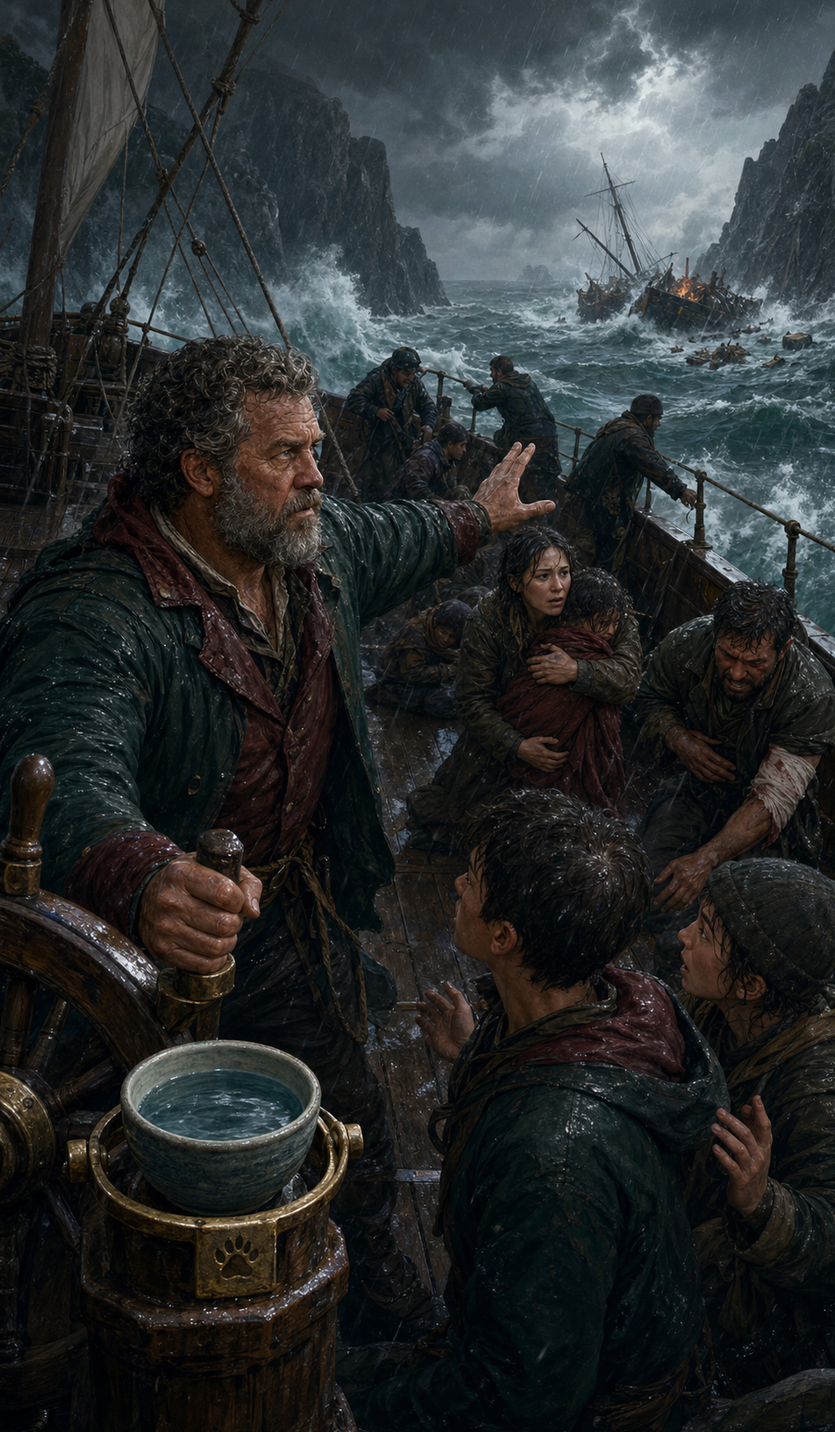
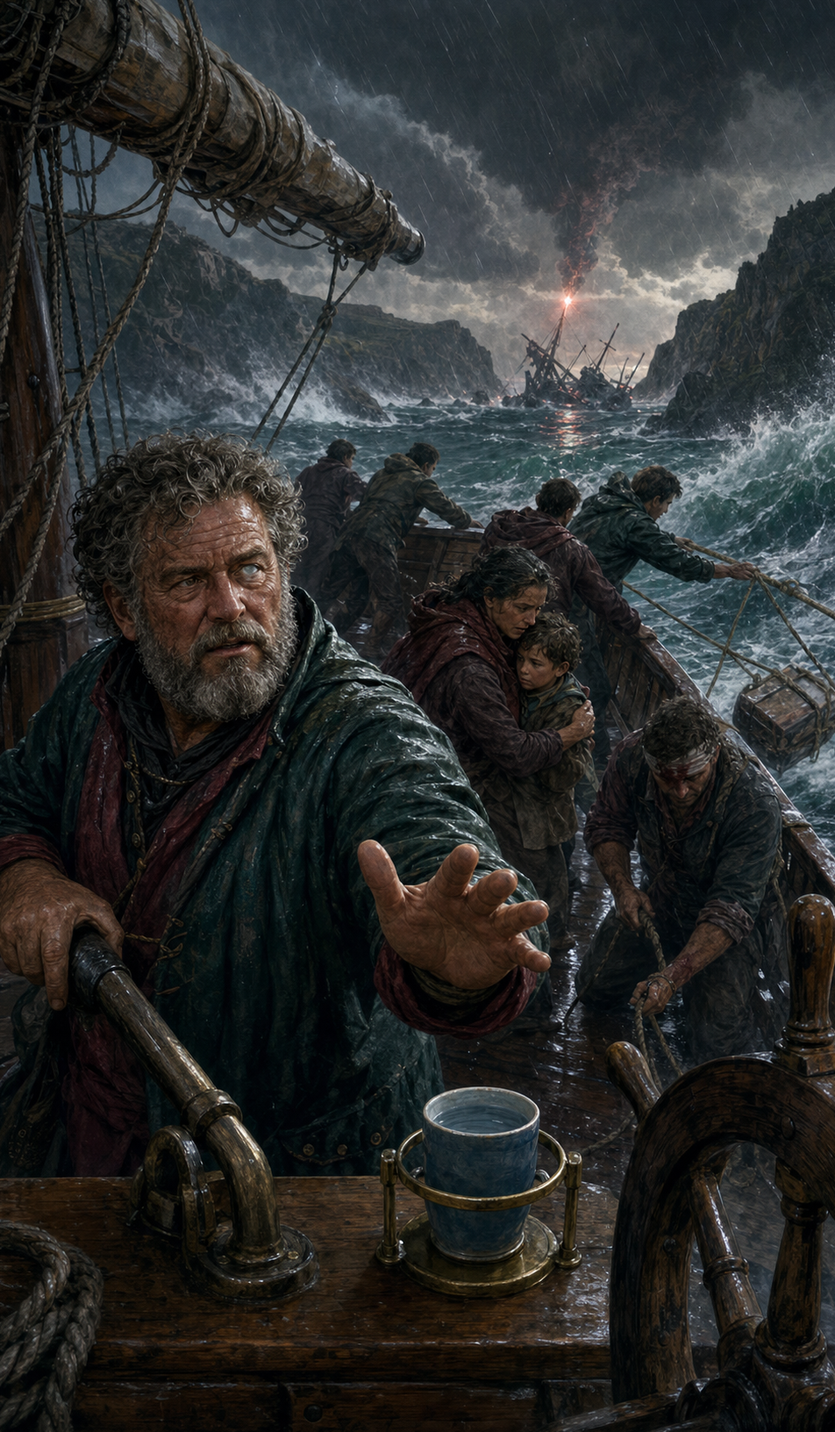
Correct the three Pending A19 candidates with independent text-only regenerations, preserve rejection provenance, and clarify that wolf motifs must be narratively meaningful rather than token branding. For handoff only — all three A19 cards remain Pending owner visual review.

diff --git a/resources/assets/tarot/artwork-packs/lupus-noctis/records/minor/pentacles/seven.md b/resources/assets/tarot/artwork-packs/lupus-noctis/records/minor/pentacles/seven.md
@@ -13,11 +13,11 @@ Seven of Pentacles represents patience, long investment, evaluation, delayed rew
 
 ## Independent Casting
 
-The central cultivator is a short, sturdy man approximately 62–72 with pale ruddy skin, thick white-blond beard, sparse white hair, a deeply lined face, broad soil- and spore-stained hands, and patched umber, lichen-green, and faded-blue underground work clothing. One young adult apprentice remains secondary at a vertical temperature gauge. Neither is recurring cast, and the cultivator is not presented as a dwarf, wizard, or comic hermit.
+The central cultivator is a short, sturdy man approximately 62–72 with pale ruddy skin, thick white-blond beard, sparse white hair, a deeply lined face, broad soil- and spore-stained hands, and patched umber, lichen-green, and faded-blue underground work clothing. One young adult apprentice remains secondary at an open preindustrial vertical cord-and-weight draft register. Neither is recurring cast, and the cultivator is not presented as a dwarf, wizard, or comic hermit.
 
 ## Casting Contrast
 
-The low kneeling white-blond elderly cultivator and quiet secondary gauge-reader contrast with A18's sensual communal orchard, horizontal sleeping veteran, and kinetic relay master, as well as A19's large cliff-port ensemble and crowded storm cutter. His compact grounded body and investigative work replace heroic height, authority costume, and familiar mystical-old-man cues.
+The low kneeling white-blond elderly cultivator and quiet secondary draft-register reader contrast with A18's sensual communal orchard, horizontal sleeping veteran, and kinetic relay master, as well as A19's large cliff-port ensemble and crowded storm cutter. His compact grounded body and investigative work replace heroic height, authority costume, modern-laboratory cues, and familiar mystical-old-man staging.
 
 ## Narrative Brief
 
@@ -33,13 +33,13 @@ Quiet, damp, earthy, patient, and analytical at low external but high attentive 
 
 ## Composition
 
-A restrained high-oblique chamber view uses four front beds and three rear beds to create depth. All seven circular bronze seals remain separately countable in the same `4 + 3` grouping. The cultivator kneels between mature, developing, and failed outcomes while lifting a rectangular airflow block; the apprentice and vertical scale remain secondary at the rear-right wall.
+A restrained high-oblique chamber view uses four front beds and three rear beds to create depth. All seven circular bronze seals remain separately countable in the same `4 + 3` grouping. The cultivator kneels between mature, developing, and failed outcomes while lifting a rectangular airflow block; the apprentice and open wood, brass, cord, slider, and hanging-weight device remain secondary at the rear-right support.
 
 ## Wolf Motif Mode
 
-**Visible secondary motif.** A readable wolf-track relief is carved into the old lintel above the chamber. It remains smaller than the central face and cultivation beds. No physical wolf appears.
+**Ambient-only.** Mine construction, cultivation practice, patched regional work clothing, timber shoring, stone beds, and practical material culture establish the setting. The lintel is plain rough timber and stone. No track relief, paw, wolf emblem, token insignia, physical wolf, or other animal appears.
 
-## Full Generation Prompt
+## Initial Generation Prompt
 
 ```text
 Use case: illustration-story
@@ -81,18 +81,76 @@ Exactly seven circular bronze seals in a 4 + 3 arrangement. No other prominent c
 Check support beams, roots, tools and bed edges so none crosses eyes, mouths, hands or joints unnaturally.
 ```
 
-## Negative Constraints
+## Initial Negative Constraints
 
 Exactly seven circular bronze seals in a `4 + 3` arrangement; no eighth seal, loose coin, additional medallion, prominent circular metal object, round gauge, plate, wheel, circular lamp, magical glow, physical wolf, wizard or dwarf caricature, object handoff, embedded text, pseudo-runes, accidental tattoos, frame, watermark, signature, or logo.
 
-## Final Candidate
+## Initial Generation Result and Owner Rejection
+
+- Superseded candidate path: `studies/A19/seven-of-pentacles.png`; replaced in place and not retained as a duplicate
+- Original generated dimensions: `957 × 1643 px`
+- Normalized dimensions: `952 × 1632 px` (exact `7:12`), produced by centered crop without stretching
[1 lines of base64/hex data omitted]
+- Generation ordinal: **1**, independent text-only; no attachment or image reference
+- Owner rejection: the apprentice's narrow enclosed vertical instrument read as a modern thermometer rather than a plausible preindustrial measuring device, and the wolf-track relief above the lintel read as a forced decorative insert. Both were blocking defects requiring a preindustrial open draft/humidity register and ambient-only worldbuilding without a replacement token motif.
+
+## Targeted Correction Prompt
+
+```text
+Use case: illustration-story
+Asset type: corrected borderless inner illustration for an exact 7:12 portrait Tarot review candidate
+Generation mode: one targeted independent text-only correction; no input image and no image reference
+
+Primary request:
+Create an earthy contemporary painted grounded narrative-fantasy Tarot illustration about patience, cultivation, delayed reward, evaluation, and adjusting a process instead of merely repeating failure. Preserve the abandoned-mine medicinal mushroom farm and exact seven-seal contract, while correcting both rejected defects: the modern-thermometer reading and the forced wolf-track relief.
+
+Scene:
+An abandoned mine gallery has been converted into a practical subterranean medicinal mushroom farm. Exactly seven experimental stone cultivation beds use different substrates. Exactly two beds contain mature fruiting mushrooms. Several beds show clearly distinguishable early growth. One bed has visibly failed through dry or contaminated substrate. The cultivator deliberately leaves the mature growth unharvested until the next humidity cycle while removing exactly one rectangular non-circular wooden airflow block from the failed bed to change the process.
+
+Central cultivator:
+A man approximately sixty-two to seventy-two years old with a short sturdy build, pale ruddy skin, thick white-blond beard, sparse white hair, deeply lined face, and broad soil- and spore-stained hands. He wears patched umber, lichen-green, and faded-blue underground work clothing. He is a grounded experienced worker, not a fantasy dwarf, wizard, alchemist, or comic hermit.
+
+Apprentice and corrected device:
+Exactly one young adult apprentice remains secondary and checks a plausible preindustrial vertical airflow, draft, or humidity-registering device fixed to a timber support.
+The device is unmistakably handmade and preindustrial: an open wooden vertical frame, brass linear pointer, taut cord, small sliding marker, and one hanging non-circular weight showing airflow or humidity by vertical displacement.
+It has no glass tube, no sealed liquid column, no mercury appearance, no modern thermometer shape, no laboratory styling, no modern industrial casing, no round dial, no numbers, no letters, and no embedded writing.
+The apprentice observes or adjusts the cord and sliding marker without pointing dramatically and without receiving an object.
+
+Exact pentacle contract:
+Exactly seven prominent circular bronze cultivation seals mark the seven beds.
+Front group: exactly four complete, separately visible circular bronze seals.
+Rear group: exactly three complete, separately visible circular bronze seals.
+Total: exactly seven.
+All seven seals are fully inside the image with clear negative space and safe margins. No seal is cropped, hidden, merged, or obscured.
+No eighth seal, no loose coin, no additional medallion, no round gauge, no plate, no wheel, no circular lamp, no circular metal fitting, and no other prominent count-confusing circular metal object.
+
+Corrected wolf-world mode:
+Ambient-only through old mine construction, cultivation practice, patched regional work clothing, timber shoring, stone beds, and material culture.
+The lintel above the chamber is plain rough stone and timber with no carving.
+No wolf-track relief. No paw print, wolf emblem, badge, logo, medallion, carved wolf head, decorative animal symbol, substitute token insignia, physical wolf, or other animal.
+
+Composition:
+Exact 7:12 portrait, borderless. Use a restrained high-oblique or chamber-level view. Arrange four foreground beds in one clearly readable front group and three background beds in one clearly readable rear group. The seven seals must be instantly countable at Tarot-card size. The cultivator kneels between mature, developing, and failed results, visibly lifting the rectangular airflow block. The apprentice and open cord-and-weight linear device remain visible but secondary. Keep all seals, faces, hands, device, and action within safe margins.
+
+Style and materials:
+Contemporary painted grounded fantasy, modern RPG chapter art, natural varied brushwork, believable mature anatomy and hands. Distinguish skin, white-blond beard, patched cloth, rough stone, timber, bronze, soil, mature mushrooms, early growth, failed substrate, moisture, cord, and simple brass pointer. Painted, not photorealistic and not 3D-rendered.
+
+Mood and palette:
+Quiet, damp, earthy, patient, and analytical. Lichen green, umber, mineral gray, faded blue, restrained bronze, pale fungal cream, moist soil, and cool shaft light.
+
+Absolute constraints:
+Exactly seven circular bronze seals in a 4 front + 3 rear arrangement. No other prominent circular metal object. No modern thermometer, glass tube, liquid column, laboratory device, modern instrument, round gauge, dial, writing, or numbers. No wolf-track relief or any substitute token wolf motif. No magic glow, physical wolf, animal, wizard, dwarf caricature, alchemist, treasure mine, handoff, text, title, number, frame, border, watermark, signature, logo, pseudo-runes, accidental tattoos, 3D render, anime, or comic cel shading.
+
+Check support beams, roots, tools, device cords, pointers, and bed edges so none crosses eyes, mouths, hands, or joints unnaturally.
+```
+
+## Corrected Final Candidate
 
 - Path: `studies/A19/seven-of-pentacles.png`
-- Original generated dimensions: `957 × 1643 px`
+- Corrected generated dimensions: `957 × 1643 px`
 - Final dimensions: `952 × 1632 px` (exact `7:12`), produced by centered crop without stretching
[1 lines of base64/hex data omitted]
-- Generation count: **1** initial text-only generation; no correction used
-- Targeted correction prompt: none
-- Technical review: Full-size, `238 × 408` card-size, and cultivation-area zoom review prove exactly seven separately visible circular bronze bed seals: four across the front group and three across the rear group. No eighth seal, loose coin, additional medallion, round instrument face, or other prominent circular metal object appears; the apprentice uses a vertical scale. Two beds carry mature mushrooms, several show distinct early stages, and the dense pale failed bed contrasts with both. The cultivator leaves mature growth in place while lifting one rectangular wooden airflow block, so the action reads as patient evaluation and process adjustment rather than passive waiting. The old white-blond cultivator remains a grounded worker rather than a dwarf, wizard, or comic hermit, and the wolf-track lintel relief is readable but secondary. Faces, hands, joints, supports, bed edges, stone, timber, bronze, soil, fungi, moisture, beard, and cloth remain clear and materially distinct; no blocking facial tangency, embedded text, pseudo-rune, accidental tattoo, physical wolf, frame, watermark, signature, or logo is visible. The source was decoded and center-cropped without stretching.
[1 lines of base64/hex data omitted]
+- Cumulative generation count: **2** independent text-only generations; neither used an attachment or image reference
+- Technical review: Full-size, `238 × 408` card-size, cultivation-area zoom, and device zoom review show exactly seven complete circular bronze bed seals, four across the front group and three across the rear group. No eighth seal, loose coin, additional medallion, round gauge, wheel, plate, circular lamp, or other prominent count-confusing circular metal object appears. Each of the seven seals carries the same conspicuous five-point geometric star design; these markings do not add to the seal count and are not wolf motifs, but they remain an explicit owner-review observation rather than being misreported as an absence of visible symbols. The apprentice uses an open timber frame with cord, brass slider and linear pointer, and a hanging cylindrical weight; there is no glass tube, liquid column, enclosed thermometer body, modern laboratory casing, writing, number, or round dial. Four foreground and three rear beds show two mature crops, developing growth, and failed pale substrate; the cultivator actively lifts one rectangular airflow block. The plain timber-and-stone lintel has no track relief, paw, wolf emblem, badge, medallion, carving, substitute insignia, physical wolf, or animal, so wolf mode is ambient-only. Faces, hands, joints, supports, device cord, bed edges, stone, timber, bronze, soil, fungi, beard, and cloth remain readable without a blocking tangency. No embedded text, pseudo-rune, accidental tattoo, frame, watermark, signature, or logo is visible beyond the explicitly disclosed identical geometric seal designs. The corrected source was decoded and center-cropped without stretching.
 - Generation input: text-only; no attachment or image reference
 - Owner acceptance: **Pending**

diff --git a/resources/assets/tarot/artwork-packs/lupus-noctis/records/minor/cups/king.md b/resources/assets/tarot/artwork-packs/lupus-noctis/records/minor/cups/king.md
@@ -37,9 +37,9 @@ A low side-three-quarter portrait view layers the captain, bilge lever, one gimb
 
 ## Wolf Motif Mode
 
-**Subtle anchor.** One small weathered wolf-paw stamp is clearly visible on the brass gimballed cup holder. It remains secondary to the captain, group, storm, and cup. No physical wolf or other animal appears.
+**Ambient-only.** Coastal cutter construction, practical storm clothing, weathered maritime materials, and regional seafaring culture establish the setting. The gimballed holder is plain and functional. No physical wolf, paw stamp, badge, medallion, carved head, token insignia, or other animal appears.
 
-## Full Generation Prompt
+## Initial Generation Prompt
 
 ```text
 Use case: illustration-story
@@ -74,18 +74,69 @@ Exactly one cup-like vessel and no other visible container. No toast, throne, cr
 Check ropes, rails, lever, mast lines and rigging so none crosses an eye, mouth, face, hand or joint unnaturally.
 ```
 
-## Negative Constraints
+## Initial Negative Constraints
 
 Exactly one cup-like vessel; no second cup, mug, bowl, bottle, pitcher, bucket, open barrel, cup-shaped lantern, toast, handoff, static council, paternalistic hero tableau, crown, armor, magic, physical wolf, animal, embedded text, pseudo-runes, accidental tattoos, frame, watermark, signature, or logo.
 
-## Final Candidate
+## Initial Generation Result and Owner Rejection
+
+- Superseded candidate path: `studies/A19/king-of-cups.png`; replaced in place and not retained as a duplicate
+- Original generated dimensions: `957 × 1643 px`
+- Normalized dimensions: `952 × 1632 px` (exact `7:12`), produced by centered crop without stretching
[1 lines of base64/hex data omitted]
+- Generation ordinal: **1**, independent text-only; no attachment or image reference
+- Owner rejection: the exact one-cup contract and storm-rescue scene succeeded, but the visible wolf-paw stamp on the gimballed holder read as forced branding rather than meaningful world integration. The holder therefore required replacement by a plain functional design, with no substitute token wolf symbol.
+
+## Targeted Correction Prompt
+
+```text
+Use case: illustration-story
+Asset type: corrected borderless inner illustration for an exact 7:12 portrait Tarot review candidate
+Generation mode: one targeted independent text-only correction; no input image and no image reference
+
+Primary request:
+Create a storm-dark contemporary painted grounded narrative-fantasy Tarot illustration about emotional command, compassion, diplomacy, mature listening, and calm leadership under pressure. Preserve the overloaded rescue-cutter narrative and exact one-cup contract, but remove the rejected forced wolf-branding defect completely.
+
+Scene:
+A rescue cutter has already taken too many survivors aboard during a violent coastal storm when a second wreck sends a distress flare beyond a narrow protected lee channel. The frightened crew argues that returning may capsize everyone already rescued.
+
+Captain:
+A man approximately fifty to sixty years old, medium-tall and thick-set, with weathered ruddy-fair skin, broad face, dense salt-and-pepper curls, short squared beard, and one clouded eye. He wears dark sea-green and faded burgundy storm clothing, with no armor, crown, aristocratic costume, or hero pose.
+
+Action:
+The captain does not shout. He keeps one hand firmly operating a practical manual bilge lever. With the other hand he uses a clear calm open gesture to redistribute frightened passengers across the rolling deck. He listens to the only conscious survivor indicating the sheltered lee channel, orders nonessential cargo cut loose, and turns the cutter back toward the second wreck. Show two frightened junior sailors actively obeying, one grieving refugee parent protecting a child while moving to the safer side, and one injured deck worker still helping. The captain's emotional command must visibly change the group's behavior while the storm remains dangerous.
+
+Exact cup contract:
+Exactly one broad ceramic cup of water sits in exactly one plain functional brass gimballed holder beside the helm. The cup is unmistakably a cup-like drinking vessel, not a bowl. Its water surface remains visibly level while the cutter rolls. The cup is stationary, secondary, not held, passed, raised, used ceremonially, or used in a toast.
+No second cup-like vessel anywhere. No extra cup, mug, bowl, bottle, pitcher, bucket, open barrel, open jar, goblet, basin, cup-shaped lantern, or visible open container. Covered ship equipment and closed storage must not resemble vessels.
+
+Corrected wolf-world mode:
+Ambient-only through coastal cutter construction, practical storm clothing, weathered civic maritime materials, and regional seafaring culture.
+The gimballed holder must be completely plain and functional.
+No wolf-paw stamp. No paw print. No wolf badge, logo, medallion, carved wolf head, token emblem, decorative animal insignia, substitute branding, physical wolf, or other animal.
+
+Composition:
+Exact 7:12 portrait, borderless. Use a low side-three-quarter or high stern view. Layer the rolling deck, captain, frightened group, working bilge lever, single gimballed cup, lee channel, and second wreck into one comprehensible action. The captain is emotionally central but not a superhero. Keep the cup visible for inspection but secondary to the human event. Keep faces, hands, lever, cup, and holder within safe margins.
+
+Style and materials:
+Contemporary painted grounded fantasy, modern RPG chapter art, believable preindustrial ship and storm mechanics, natural varied brushwork. Distinguish wet skin, wet cloth, wood, rope, plain brass, ceramic, foam, rain, and cloud. Painted, not photorealistic and not 3D-rendered.
+
+Mood and palette:
+Violent surroundings with a controlled human center. Deep sea green, storm gray, faded burgundy, wet timber, cold foam, restrained ceramic blue, plain weathered brass, and natural skin tones.
+
+Absolute constraints:
+Exactly one cup-like vessel in exactly one plain gimballed holder. No other visible vessel or container. No wolf-paw stamp or any substitute token wolf symbol. No toast, throne, crown, magic, battle, static council, object handoff, paternalistic tableau, physical wolf, animal, text, title, number, frame, border, watermark, signature, logo, pseudo-runes, accidental tattoos, modern equipment, 3D render, anime, or comic cel shading.
+
+Check ropes, rails, lever, mast lines, rigging, cup, and holder so none crosses an eye, mouth, face, hand, or joint unnaturally.
+```
+
+## Corrected Final Candidate
 
 - Path: `studies/A19/king-of-cups.png`
-- Original generated dimensions: `957 × 1643 px`
+- Corrected generated dimensions: `958 × 1642 px`
 - Final dimensions: `952 × 1632 px` (exact `7:12`), produced by centered crop without stretching
[1 lines of base64/hex data omitted]
-- Generation count: **1** initial text-only generation; no correction used
-- Targeted correction prompt: none
-- Technical review: Full-size, `238 × 408` card-size, and cup-area zoom review show exactly one broad ceramic cup in one brass gimballed holder; no other open or cup-like vessel is visible. The water surface remains level against the rolling cutter, the cup is stationary and secondary, and the wolf-paw stamp is plainly visible on the front of its holder. The thick-set salt-and-pepper captain grips the manual lever with one hand and uses the other to settle and direct the frightened group; junior sailors continue working, the refugee parent protects a child, and the injured deck worker remains active while the second wreck and lee channel keep the storm danger comprehensible. The scene reads as emotional containment changing behavior, not a static council, handoff, paternalistic tableau, or superhero pose. Faces, hands, joints, rigging, rails, wet cloth, timber, brass, ceramic, foam, rain, and skin remain clear and materially distinct; no blocking facial tangency, embedded text, pseudo-rune, accidental tattoo, animal, frame, watermark, signature, or logo is visible. The source was decoded and center-cropped without stretching.
[1 lines of base64/hex data omitted]
+- Cumulative generation count: **2** independent text-only generations; neither used an attachment or image reference
+- Technical review: Full-size, `238 × 408` card-size, and cup-area zoom review show exactly one tall broad ceramic cup in exactly one plain brass gimballed holder. Its water surface remains visibly level against the rolling cutter; the cup is stationary, secondary, and not held or passed. No second cup, mug, bowl, bottle, pitcher, bucket, open barrel, jar, basin, cup-shaped lantern, or other open vessel is visible; the rectangular cargo hanging over the starboard water is a closed lashed crate. The holder has no paw stamp, animal mark, badge, logo, medallion, carving, or substitute token emblem. Ambient-only setting relies on cutter construction, storm clothing, maritime materials, and seafaring activity. The captain's clouded eye is visible; one hand works the lever while the other gives a calm open command, and the crew, refugee parent with child, and injured worker actively redistribute effort toward the lee channel and second wreck. The storm remains dangerous without static-council, handoff, paternalistic, or superhero staging. Faces, hands, joints, rigging, rails, lever, ceramic, plain brass, wet timber, cloth, foam, and rain remain readable without a blocking tangency. No embedded text, pseudo-rune, accidental tattoo, physical wolf, animal, frame, watermark, signature, or logo is visible. The corrected source was decoded and center-cropped without stretching.
 - Generation input: text-only; no attachment or image reference
 - Owner acceptance: **Pending**

diff --git a/resources/assets/tarot/artwork-packs/lupus-noctis/records/major/wheel-of-fortune.md b/resources/assets/tarot/artwork-packs/lupus-noctis/records/major/wheel-of-fortune.md
@@ -39,7 +39,7 @@ A steep high-oblique portrait view makes one complete timber-and-bronze wheel do
 
 **Ambient-only.** Cliff-port architecture, civic coats, municipal machinery, wet stone, timber, bronze, and regional material culture establish Lupus Noctis. No physical wolf, spirit wolf, or mandatory emblem appears.
 
-## Full Generation Prompt
+## Initial Generation Prompt
 
 ```text
 Use case: illustration-story
@@ -72,18 +72,70 @@ Exactly one dominant complete wheel. No roulette, casino, second principal wheel
 Check spokes, ropes, rails, beams and cradle edges so none crosses eyes, mouths, hands or joints unnaturally.
 ```
 
-## Negative Constraints
+## Initial Negative Constraints
 
 Exactly one dominant complete principal wheel; no second principal wheel, wagon wheel, roulette or casino reading, zodiac diagram, magical destiny symbol, supernatural being, moral reward or punishment, physical wolf, embedded text, pseudo-runes, accidental tattoos, frame, watermark, signature, or logo. Small mechanical pulleys remain visually subordinate.
 
-## Final Candidate
+## Initial Generation Result and Owner Rejection
+
+- Superseded candidate path: `studies/A19/wheel-of-fortune.png`; replaced in place and not retained as a duplicate
+- Original generated dimensions: `957 × 1643 px`
+- Normalized dimensions: `952 × 1632 px` (exact `7:12`), produced by centered crop without stretching
[1 lines of base64/hex data omitted]
+- Generation ordinal: **1**, independent text-only; no attachment or image reference
+- Owner rejection: the image contained two explicit large white directional arrows over the scene. They were blocking diagrammatic or infographic overlays rather than in-world physical evidence of motion. The prior technical review incorrectly omitted this visible defect.
+
+## Targeted Correction Prompt
+
+```text
+Use case: illustration-story
+Asset type: corrected borderless inner illustration for an exact 7:12 portrait Tarot review candidate
+Generation mode: one targeted independent text-only correction; no input image and no image reference
+
+Primary request:
+Create a dramatic contemporary painted grounded narrative-fantasy Tarot illustration about reversal, cycles, instability, external change, timing, chance, and limited human agency. Preserve the cliff-port tidal lift concept, but correct the rejected diagrammatic-overlay defect completely.
+
+Scene:
+A fortified cliff-port uses one enormous municipal tidal counterweight wheel to move freight and people between the lower harbor and upper city. During a rare storm-surge reversal, the great wheel physically begins rotating backward because the sea and counterweight mechanism reverse.
+
+Exact wheel contract:
+Show exactly one dominant complete principal mechanical wheel, fully contained and clearly readable: a huge weathered timber-and-bronze municipal counterweight wheel built into the cliff station. No second principal wheel, wagon wheel, roulette wheel, casino wheel, zodiac wheel, decorative circular diagram, or magical destiny wheel. Any small rope pulley must remain unmistakably subordinate and utilitarian.
+
+Physical narrative:
+One freight cradle carrying expensive but ordinary cargo is visibly lower and descending toward sea spray: cargo shifts downhill, wet ropes strain, workers brace against the drop, and spray bursts below it.
+One rescue cradle carrying exactly two exhausted flood workers is visibly higher and rising toward the dry quay: taut ropes lift it, the occupants lean with acceleration, and upper workers reach to receive it.
+An elderly one-armed lift mechanic cannot stop the reversal. He directs an adolescent apprentice who is physically releasing emergency ballast through a practical lever and dropping counterweight material so the machinery does not tear apart. A wealthy merchant remains on the descending freight platform. Several workers across different levels react and adapt. Nobody is morally rewarded or punished and nobody is a central savior.
+
+Motion must be communicated only through real physical evidence: rope tension, load position, relative cradle height, body lean, cargo shift, ballast release, splash, gravity, storm force, strained structure, and worker reaction.
+
+Absolute anti-defect rule:
+No arrows anywhere. No directional marks, chevrons, painted motion indicators, curved arrows, white arrows, diagrammatic annotations, instructional symbols, infographic overlays, UI marks, labels, route markings, or motion graphics. Do not paint or carve an arrow onto water, stone, timber, cargo, machinery, clothing, sky, or any surface.
+
+Wolf-world mode:
+Ambient-only through cliff-port architecture, civic clothing, machinery, storm materials, and regional construction. No physical wolf, spirit wolf, paw print, wolf emblem, wolf badge, medallion, carved wolf head, token insignia, or arbitrary symbolic insert.
+
+Composition:
+Exact 7:12 portrait, borderless. Use a steep high-oblique or low upward cliff view. The single complete wheel dominates the structural center while the differently elevated cradles form opposing physical diagonals. People remain readable but smaller than the mechanism. Keep the entire principal wheel and essential figures within safe margins. Avoid poster chaos and hero posing.
+
+Style and materials:
+Contemporary painted grounded fantasy, modern RPG chapter art, natural varied brushwork, believable preindustrial machinery and human anatomy. Distinguish wet timber, oxidized bronze, rope, wet stone, cloth, ordinary cargo, foam, rain, and storm air. Painted, not photorealistic and not 3D-rendered.
+
+Mood and palette:
+Unstable, vertiginous, dramatic, indifferent, and unsentimental. Storm green, wet stone gray, weathered timber, oxidized bronze, deep maritime blue, restrained cargo colors, and cold reflected light.
+
+Constraints:
+Exactly one dominant complete principal wheel. Exactly two flood workers in the rising rescue cradle. No arrows or overlay marks of any kind. No roulette, casino, second principal wheel, zodiac imagery, magical symbol, supernatural being, divine beam, prophecy, text, title, number, frame, border, watermark, signature, logo, pseudo-runes, accidental tattoos, physical wolf, wolf token, 3D render, anime, or comic cel shading.
+
+Check spokes, ropes, rails, beams, cradle edges, and cargo so none crosses eyes, mouths, hands, or joints unnaturally.
+```
+
+## Corrected Final Candidate
 
 - Path: `studies/A19/wheel-of-fortune.png`
-- Original generated dimensions: `957 × 1643 px`
+- Corrected generated dimensions: `958 × 1641 px`
 - Final dimensions: `952 × 1632 px` (exact `7:12`), produced by centered crop without stretching
[1 lines of base64/hex data omitted]
-- Generation count: **1** initial text-only generation; no correction used
-- Targeted correction prompt: none
-- Technical review: Full-size, `238 × 408` card-size, and principal-mechanism zoom review show exactly one dominant complete municipal wheel. Smaller lift pulleys remain subordinate and cannot be mistaken for a second principal wheel. The cargo platform descends while the cradle containing exactly two exhausted flood workers rises; opposing directional motion, the mechanic's instruction, and the apprentice's ballast action make reversal and limited agency readable. The wealthy merchant, workers, mechanic, and apprentice occupy different levels without divine reward, punishment, casino, roulette, zodiac, prophecy, or central-savior staging. Ambient-only wolf-world mode succeeds through the cliff port and civic machinery. Faces, hands, joints, ropes, rails, spokes, wet stone, timber, bronze, cloth, cargo, foam, and storm air remain readable and materially distinct; no blocking facial tangency, embedded text, pseudo-rune, accidental tattoo, physical wolf, frame, watermark, signature, or logo is visible. The source was decoded and center-cropped without stretching.
[1 lines of base64/hex data omitted]
+- Cumulative generation count: **2** independent text-only generations; neither used an attachment or image reference
+- Technical review: Full-size, `238 × 408` card-size, and mechanism zoom review show exactly one dominant complete principal wheel. One small top rope pulley and the apprentice's compact ballast drum remain subordinate utilitarian mechanisms rather than competing principal wheels. Exactly two exhausted flood workers occupy the higher rising cradle; the merchant and ordinary cargo occupy the lower platform over breaking spray. Taut ropes, relative height, body lean, shifted loads, worker reach, storm force, and the apprentice's visibly falling ballast make opposing motion and limited agency legible without arrows, chevrons, directional marks, annotations, or infographic overlays. The elderly mechanic's missing forearm is clear, people adapt without moral reward or punishment, and no roulette, casino, zodiac, magical-destiny, or central-savior reading appears. Ambient-only worldbuilding relies on cliff-port architecture, civic clothing, machinery, and materials; no wolf, paw, emblem, or token symbol is visible. Faces, hands, joints, ropes, rails, spokes, timber, bronze, stone, cloth, cargo, foam, and rain remain readable without a blocking tangency. No embedded text, pseudo-rune, accidental tattoo, frame, watermark, signature, or logo is visible. The corrected source was decoded and center-cropped without stretching.
 - Generation input: text-only; no attachment or image reference
 - Owner acceptance: **Pending**

diff --git a/resources/assets/tarot/artwork-packs/lupus-noctis/LUPUS-NOCTIS.md b/resources/assets/tarot/artwork-packs/lupus-noctis/LUPUS-NOCTIS.md
@@ -115,11 +115,11 @@
   - [`minor.swords.four`](records/minor/swords/four.md) — owner acceptance: **Accepted**; exactly four complete sheathed swords remain readable as `2 + 2`, exactly one white-and-brindle greyhound sleeps below, and the rest reads as recovery rather than death.
   - [`minor.wands.eight`](records/minor/wands/eight.md) — owner acceptance: **Accepted** after one targeted correction; the initial `4 + 3 = 7` defect remains recorded, and the accepted second generation contains exactly `4 + 4 = 8` separate civilian dispatch batons with no ninth or spare baton.
 - A19: **Pending** reversal / emotional command / patient cultivation batch.
-- A19 generation method: built-in `imagegen`, text-only; no attachment, accepted card, rejected study, or newly generated A19 card was used as an image reference.
+- A19 generation method: built-in `imagegen`, text-only; no attachment, accepted card, rejected study, or newly generated A19 card was used as an image reference. Owner review rejected all three initial candidates, and each card then used exactly one targeted independent text-only correction without an image reference, for cumulative generation count **2** per card.
 - A19 review candidates:
-  - [`major.wheel-of-fortune`](records/major/wheel-of-fortune.md) — owner acceptance: **Pending**; one principal tidal wheel and opposing cradle movement.
-  - [`minor.cups.king`](records/minor/cups/king.md) — owner acceptance: **Pending**; one stationary gimballed cup and visible wolf-paw stamp.
-  - [`minor.pentacles.seven`](records/minor/pentacles/seven.md) — owner acceptance: **Pending**; exactly seven bronze seals in `4 + 3`, vertical gauge, and visible wolf-track lintel.
+  - [`major.wheel-of-fortune`](records/major/wheel-of-fortune.md) — owner acceptance: **Pending** after one targeted correction removed the initial white directional-arrow overlays; one complete principal tidal wheel and opposing cradle movement now read through physical staging alone.
+  - [`minor.cups.king`](records/minor/cups/king.md) — owner acceptance: **Pending** after one targeted correction removed the initial forced paw stamp; exactly one stationary gimballed cup remains, and wolf mode is ambient-only.
+  - [`minor.pentacles.seven`](records/minor/pentacles/seven.md) — owner acceptance: **Pending** after one targeted correction replaced the modern-thermometer reading and removed the forced lintel track; exactly seven bronze seals remain in `4 + 3`, with the identical five-point geometry on those seals disclosed for owner review.
 
 The accepted A2, A4, A5, A6, A7, A8, A9, A10, A11, A12, A13, A14, A15, A16, A17, and A18 images are shipped production assets listed by `artwork-pack.json`. A19 is a bounded tracked-review batch outside the manifest and production inventory. No accepted-wave study copies remain, the post-A19 generation batch remains deliberately unselected, and no contact sheets belong to this pack.
 
@@ -146,6 +146,14 @@ Every brief selects the prominence that serves its individual meaning:
 5. **Lycanthrope** — serious full or partial transformation when the meaning requires it; never furry.
 
 Prominence follows meaning. Do not add a large wolf head automatically, replace every animal with a wolf, or treat a physical wolf as a deck-wide requirement. Ordinary cats, dogs, birds, horses, and other animals are allowed when they participate in the scene.
+
+### Meaningful Wolf Integration Gate
+
+- Wolf motifs must serve the narrative and harmonize with the scene; motif presence is never a quota or branding requirement.
+- Do not add a paw print, logo-like emblem, medallion, doorway relief, hardware stamp, carved head, or other arbitrary symbolic insert merely to make a card visibly wolf-themed.
+- When a meaningful wolf-world element does not arise naturally from the scene, select **Ambient-only** and rely on architecture, institution, clothing, materials, practice, or lore.
+- Meaningful integration may include a real wolf or pack, serious lycanthropic or wolf-like human presence, setting-appropriate wolf-gray fur or practical pelts, or story-relevant statues, kennels, hunting, forest danger, lairs, pastoral work, and martial context.
+- A random paw icon on equipment, a decorative wolf symbol without narrative function, or a relief placed over a doorway only as a label is a review defect, even when technically secondary and readable.
 
 ### Wolf-World Legibility Gate
 

diff --git a/docs/PROJECT-STATE.md b/docs/PROJECT-STATE.md
@@ -22,13 +22,13 @@
 - T1 first playable Tarot workspace is complete at checkpoint commit `4e7e3d61bc11b875af9fb5591f5a10ed986c8962`: real single-card and three-card in-memory readings, explicit reversal preference, responsive programmatic prototype cards, two selectable backs, localized inspection, and presentation-owned session state are ready for owner visual review. Hosted run `30791606505` passed Documentation contracts, Windows, Ubuntu, macOS, and Diagnostic coverage jobs.
 - A3 partial-pack integration is functionally and visually accepted at commit `4977852287051c95945b55f78d18c263dc35de20`: Lupus Noctis contributes three accepted raster cards over the unchanged semantic reading, with Classic first, controlled fallback, localized overlays, and validated built-in resources. Single-card scale remains deferred to T-UX1 and native title-bar replacement to S2.
 - AP0 asset-pack runtime architecture is complete at checkpoint commit `37dc91e24a8c73ec949312c21a684f5e2998398d`; hosted run `30806291467` passed Documentation contracts, Windows, Ubuntu, macOS, and Diagnostic coverage jobs.
-- A18 is owner-accepted and promoted: `major.empress`, `minor.swords.four`, and corrected `minor.wands.eight` bring Lupus Noctis to 48/78 production illustrations. Eight of Wands retains the initial `4 + 3 = 7` defect, targeted independent correction, successful `4 + 4 = 8` result, and cumulative generation count two. The three A19 candidates remain Pending owner review outside the manifest and Release output.
+- A18 is owner-accepted and promoted: `major.empress`, `minor.swords.four`, and corrected `minor.wands.eight` bring Lupus Noctis to 48/78 production illustrations. Eight of Wands retains the initial `4 + 3 = 7` defect, targeted independent correction, successful `4 + 4 = 8` result, and cumulative generation count two. Owner review rejected all three initial A19 candidates; each received exactly one independent text-only correction and remains Pending owner review outside the manifest and Release output. Detailed initial defects, correction prompts, corrected hashes, and residual observations belong to the card records.
 - The actual branch and current HEAD are always reported by `eng/repo-baseline.ps1`; dynamic Git state is not owned here.
 - The visual system is Astral Archive with paired Obsidian and Porcelain themes.
 
 ## Current Focus
 
-Continue ART-LN with owner visual review of the three Pending A19 candidates. The post-A19 batch remains deliberately unselected, and A19-P, A20, and AP1 do not start automatically.
+Continue ART-LN with owner visual review of the three corrected Pending A19 candidates. The post-A19 batch remains deliberately unselected, and A19-P, A20, and AP1 do not start automatically.
 
 ## Preserved Contracts
 

diff --git a/docs/SESSION-LOG.md b/docs/SESSION-LOG.md
@@ -9,6 +9,19 @@
 
 Older retained evidence is indexed in [the documentation archive](archive/README.md). Use [PROJECT-STATE.md](PROJECT-STATE.md) for the current checkpoint.
 
+## 2026-08-04: A19 Targeted Correction Pass
+
+Summary:
+
+- Recorded owner rejection of all three initial A19 candidates: Wheel of Fortune contained explicit white directional-arrow overlays, King of Cups used a forced paw stamp on the cup holder, and Seven of Pentacles paired a modern-thermometer reading with a forced lintel track relief.
+- Replaced each candidate in place through exactly one independent text-only correction without attachments or image references. Wheel now expresses opposing motion physically without arrows; King retains exactly one gimballed cup in a plain holder; Seven retains seven seals in `4 + 3`, uses an open preindustrial cord-and-weight draft register, and has a plain lintel. Each record preserves the initial hash, owner rejection, complete correction prompt, corrected metadata, cumulative generation count two, and Pending status.
+- Added the durable rule that wolf-world elements must be narratively meaningful rather than token branding; ambient-only is required when a wolf motif does not arise naturally. Seven's identical five-point seal geometry remains explicitly disclosed for owner review.
+- Kept A19 outside the production manifest and Release output. A19-P, A20, and AP1 do not begin automatically.
+
+Verification:
+
+- The proportional gate covers documentation validation, a Release solution build, focused artwork-pack and repository-boundary tests, corrected PNG dimensions/hash/provenance and source/manifest/output separation checks, and `git diff --check`; GitHub Actions is not inspected.
+
 ## 2026-08-04: A18-P + A19 Production Promotion and Reversal Batch
 
 Summary:

diff --git a/docs/NEXT-STEPS.md b/docs/NEXT-STEPS.md
@@ -1,10 +1,10 @@
 # Next Steps
 
-The repository-foundation wave, P1, S1, and T0-A are accepted with green hosted evidence. A18 is accepted and promoted, Lupus Noctis now has 48/78 accepted production illustrations with prototype fallback for omitted cards, and the three A19 candidates remain Pending.
+The repository-foundation wave, P1, S1, and T0-A are accepted with green hosted evidence. A18 is accepted and promoted, Lupus Noctis now has 48/78 accepted production illustrations with prototype fallback for omitted cards, and the three corrected A19 candidates remain Pending.
 
 Immediate next steps:
 
-1. **ART-LN:** visually review the three A19 candidates and decide whether to accept, reject, or correct them. The post-A19 batch remains deliberately unselected; do not begin A19-P, A20, or AP1 automatically. Art production in the stable repository structure does not wait for runtime import infrastructure.
+1. **ART-LN:** visually review the three corrected A19 candidates and decide whether to accept or reject them. Their one-correction allowance is exhausted unless the owner explicitly authorizes another attempt. The post-A19 batch remains deliberately unselected; do not begin A19-P, A20, or AP1 automatically.
 2. **AP1:** app-data path service, built-in no-delete seed synchronization, and Settings action to open application data.
 3. **AP2:** runtime registry, validation fingerprints, exact-stem extension audit/fallback, normalized PNG cache, and placeholders.
 4. **AP3–AP5:** separate Assets tool, manual user-pack discovery, then Settings import wizard.
